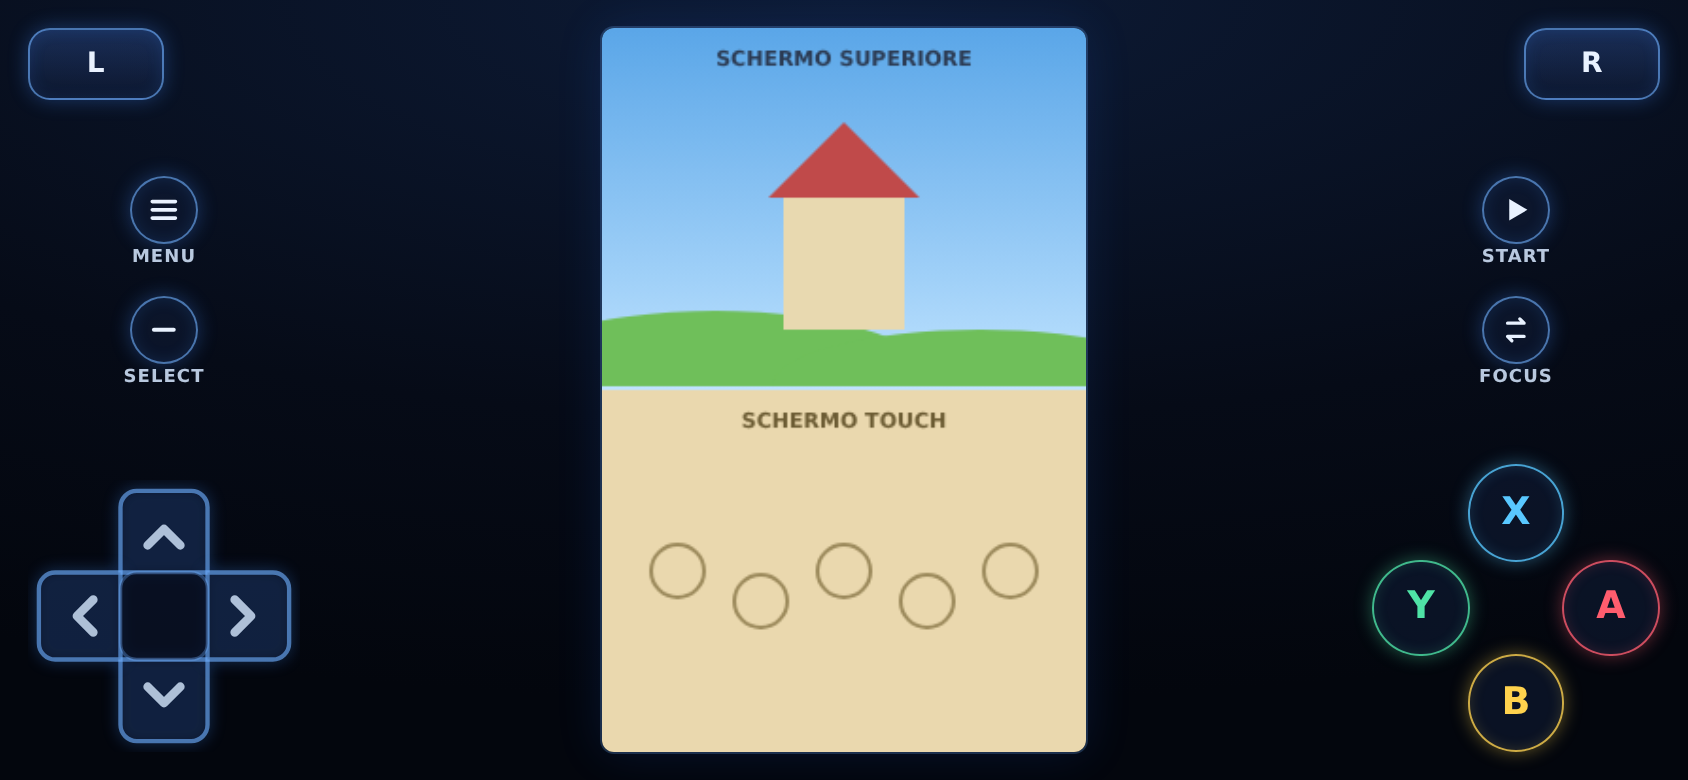
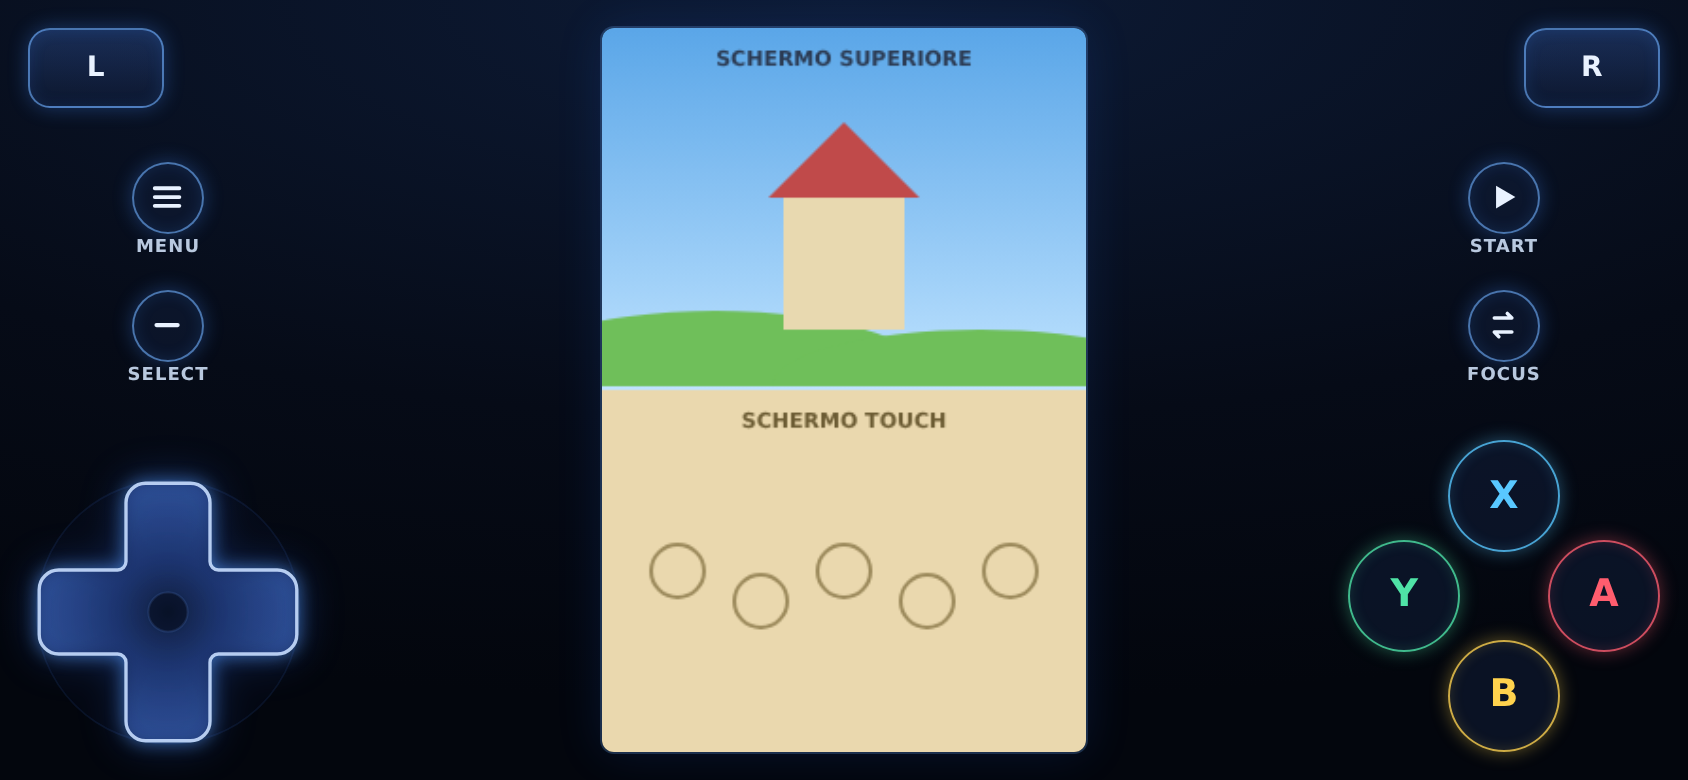
Touch controls UI freeze V1: D-pad matches approved artwork, 48/44 dp hit areas, PS1 immersive wake-on-touch
D-pad is now one plus-shaped glass silhouette (glowing rim, dimple, halo)
with clipped per-direction pressed overlays; action buttons >= 48 px,
MENU/SELECT/START/FOCUS >= 44 px, shoulders hit >= 48; PS1 aux key hides
controls (0.1) and wakes them on touch; DS landscape default stays 4:3.
Tests: 195 geometry, 118 browser, 35 PWA; docs and screenshots refreshed.

Claude-Session: https://claude.ai/code/session_01VhHh8YHWjq2vriaMyB2Wog

diff --git a/cloud/worker/public/controls/layouts.js b/cloud/worker/public/controls/layouts.js
@@ -9,12 +9,13 @@ export const PLATFORMS = {
 
 export const DIM = {
   margin: 14, gap: 10,
-  shoulder: { w: 68, h: 36 },          // DS L / R
-  shoulderPs: { w: 54, h: 36 },        // PS1 L1 L2 R1 R2
-  pill: { hit: 40, vis: 34, label: 12 },   // MENU SELECT START FOCUS (round icon button + micro label)
-  dpad: { max: 136, min: 108 },
-  cluster: { max: 144, min: 112 },     // diamond of four action buttons
-  minHit: 40,
+  shoulder: { w: 68, h: 40 },          // DS L / R
+  shoulderPs: { w: 54, h: 40 },        // PS1 L1 L2 R1 R2
+  pill: { hit: 44, vis: 36, label: 12 },   // MENU SELECT START FOCUS (round icon button + micro label)
+  dpad: { max: 140, min: 116 },
+  cluster: { max: 156, min: 134 },     // diamond of four action buttons
+  minHit: 48,                          // D-pad, action buttons, shoulders
+  minHitSystem: 44,                    // MENU SELECT START FOCUS
 };
 
 const rect = (x, y, w, h) => ({ x, y, w, h });
@@ -38,9 +39,10 @@ export function computeLayout({ platform = "nds", width, height, insets = {}, vi
   if (landscape) s = Math.min(s, frame.h / columnNeed);
 
   const D = (v) => v * s;
+  const PH = () => Math.max(D(DIM.pill.hit), DIM.pill.hit);          // MENU / SELECT / START / FOCUS never drop below their 44 px touch size
   const dpadSize = (avail) => Math.max(D(DIM.dpad.min), Math.min(D(DIM.dpad.max), avail));
   const mk = (id, type, x, y, w, h, extra = {}) => add({ id, type, x: frame.x + x, y: frame.y + y, w, h, ...extra });
-  const pill = (id, label, icon, cx, cy) => mk(id, "pill", cx - D(DIM.pill.hit) / 2, cy - D(DIM.pill.hit) / 2, D(DIM.pill.hit), D(DIM.pill.hit) + D(DIM.pill.label), { label, icon, vis: D(DIM.pill.vis) });
+  const pill = (id, label, icon, cx, cy) => mk(id, "pill", cx - PH() / 2, cy - PH() / 2, PH(), PH() + D(DIM.pill.label), { label, icon, vis: D(DIM.pill.vis) });
 
   const faces = ps
     ? [["x", "triangle", "top"], ["a", "circle", "right"], ["b", "cross", "bottom"], ["y", "square", "left"]]
@@ -67,14 +69,14 @@ export function computeLayout({ platform = "nds", width, height, insets = {}, vi
     const top = D(m) + D(sh.h) + D(g);
 
     // bottom area: D-pad bottom-left, actions bottom-right, MENU/SELECT/START small, centred.
-    const pillsW = 3 * D(DIM.pill.hit) + 2 * D(4);
-    const pillH = D(DIM.pill.hit) + D(DIM.pill.label);
+    const pillsW = 3 * PH() + 2 * D(4);
+    const pillH = PH() + D(DIM.pill.label);
     let dp = D(DIM.dpad.max), cl = D(DIM.cluster.max);
     let centre = frame.w - 2 * D(m) - dp - cl;
     let pillsInline = centre >= pillsW + D(8);
     if (!pillsInline) {                                   // shrink the pads a little before giving up the reference arrangement
       const shrink = Math.min(1, (frame.w - 2 * D(m) - pillsW - D(8)) / (dp + cl));
-      const dp2 = Math.max(D(DIM.dpad.min), dp * shrink), cl2 = Math.max(D(DIM.cluster.min), cl * shrink);
+      const dp2 = Math.max(D(DIM.dpad.min), dp * shrink), cl2 = Math.max(Math.max(D(DIM.cluster.min), DIM.cluster.min), cl * shrink);
       if (frame.w - 2 * D(m) - dp2 - cl2 >= pillsW + D(8)) { dp = dp2; cl = cl2; pillsInline = true; }
     }
     variant = pillsInline ? "inline-pills" : "tiered-pills";
@@ -83,10 +85,10 @@ export function computeLayout({ platform = "nds", width, height, insets = {}, vi
     const padsBottom = pillsInline ? bottomPad : bottomPad - pillH - D(6);
     mk("dpad", "dpad", D(m), padsBottom - dp, dp, dp);
     addCluster(frame.w - D(m) - cl, padsBottom - cl, cl);
-    const cx = frame.w / 2, step = D(DIM.pill.hit) + D(4);
-    pill("menu", "MENU", "menu", cx - step, pillRowY + D(DIM.pill.hit) / 2);
-    pill("select", "SELECT", "minus", cx, pillRowY + D(DIM.pill.hit) / 2);
-    pill("start", "START", "play", cx + step, pillRowY + D(DIM.pill.hit) / 2);
+    const cx = frame.w / 2, step = PH() + D(4);
+    pill("menu", "MENU", "menu", cx - step, pillRowY + PH() / 2);
+    pill("select", "SELECT", "minus", cx, pillRowY + PH() / 2);
+    pill("start", "START", "play", cx + step, pillRowY + PH() / 2);
     const controlsTop = padsBottom - Math.max(dp, cl);
     const region = rect(frame.x + D(m), frame.y + top, frame.w - 2 * D(m), Math.max(0, controlsTop - D(g) - top));
     screen = { region };
@@ -97,7 +99,7 @@ export function computeLayout({ platform = "nds", width, height, insets = {}, vi
     // the pads shrink (never below their minimum) when the picture would otherwise be limited by width instead of height (PS1 4:3 on a short, narrow phone)
     const wWanted = (frame.h - 2 * D(m)) * P.aspect;
     const colBudget = (frame.w - wWanted) / 2 - D(g) - D(m);
-    const dp = Math.max(D(DIM.dpad.min), Math.min(D(DIM.dpad.max), colBudget)), cl = Math.max(D(DIM.cluster.min), Math.min(D(DIM.cluster.max), colBudget));
+    const dp = Math.max(D(DIM.dpad.min), Math.min(D(DIM.dpad.max), colBudget)), cl = Math.max(Math.max(D(DIM.cluster.min), DIM.cluster.min), Math.min(D(DIM.cluster.max), colBudget));
     const colW = Math.max(dp, cl, shouldersW) + D(m);
     addShoulders("L", D(m), D(m));
     addShoulders("R", frame.w - D(m) - shouldersW, D(m));
@@ -105,11 +107,11 @@ export function computeLayout({ platform = "nds", width, height, insets = {}, vi
     addCluster(frame.w - D(m) - cl, frame.h - D(m) - cl, cl);
     // the two small buttons are stacked in the band between the shoulder row and the pad, centred on the shoulder / pad axis
     const bandTop = D(m) + D(sh.h) + D(g), bandBottom = frame.h - D(m) - Math.max(dp, cl) - D(g);
-    const pillH = D(DIM.pill.hit) + D(DIM.pill.label);
+    const pillH = PH() + D(DIM.pill.label);
     const gapPills = Math.max(0, Math.min(D(8), (bandBottom - bandTop - 2 * pillH) / 3));
     const y0 = bandTop + Math.max(0, (bandBottom - bandTop - 2 * pillH - gapPills) / 2);
     const lcx = D(m) + Math.max(shouldersW, dp) / 2, rcx = frame.w - D(m) - Math.max(shouldersW, cl) / 2;
-    const cyA = y0 + D(DIM.pill.hit) / 2, cyB = y0 + pillH + gapPills + D(DIM.pill.hit) / 2;
+    const cyA = y0 + PH() / 2, cyB = y0 + pillH + gapPills + PH() / 2;
     pill("menu", "MENU", "menu", lcx, cyA);
     pill("select", "SELECT", "minus", lcx, cyB);
     pill("start", "START", "play", rcx, cyA);
@@ -140,8 +142,9 @@ export function computeLayout({ platform = "nds", width, height, insets = {}, vi
 
   // hit areas: visible rect grown towards free space but never beyond the minimum comfortable size; clamped to the frame
   for (const c of controls) {
-    const mw = Math.max(c.w, D(DIM.minHit)), mh = Math.max(c.type === "pill" ? D(DIM.pill.hit) : c.h, D(DIM.minHit));
-    c.hit = rect(c.x - (mw - c.w) / 2, c.y - (mh - (c.type === "pill" ? D(DIM.pill.hit) : c.h)) / 2, mw, c.type === "pill" ? D(DIM.pill.hit) : mh);
+    const sys = c.type === "pill", need = sys ? DIM.minHitSystem : DIM.minHit, baseH = sys ? PH() : c.h;
+    const mw = Math.max(c.w, need), mh = Math.max(baseH, need);
+    c.hit = rect(c.x - (mw - c.w) / 2, c.y - (mh - baseH) / 2, mw, mh);
   }
   return { platform, orientation: landscape ? "landscape" : "portrait", scale: s, frame, screen, stylus, controls, variant };
 }

diff --git a/cloud/worker/public/controls/controls.css b/cloud/worker/public/controls/controls.css
@@ -14,7 +14,7 @@
 .ctl-shoulder { background: linear-gradient(180deg, rgba(40, 70, 130, .55), var(--fill)); border: 1.5px solid var(--edge); border-radius: calc(11px * var(--k, 1)); box-shadow: var(--glow);
   display: grid; place-items: center; font-size: calc(14px * var(--k, 1)); font-weight: 700; letter-spacing: .02em; }
 .ctl-shoulder.is-down, .ctl-pillbtn.is-down { background: var(--fill-down); box-shadow: var(--glow-down); transform: scale(.95); }
-.ctl-shoulder, .ctl-pillbtn, .ctl-face, .ctl-dpad .arm { transition: transform .06s, background .06s, box-shadow .06s, fill .06s; }
+.ctl-shoulder, .ctl-pillbtn, .ctl-face { transition: transform .06s, background .06s, box-shadow .06s, fill .06s; }
 
 /* MENU / SELECT / START / FOCUS: round icon + micro label */
 .ctl-pill { display: flex; flex-direction: column; align-items: center; }
@@ -23,18 +23,20 @@
 .ctl-micro { margin-top: calc(3px * var(--k, 1)); font-size: calc(9px * var(--k, 1)); letter-spacing: .06em; color: rgba(214, 232, 255, .86); text-transform: uppercase; white-space: nowrap; }
 .ctl-pill.is-active .ctl-pillbtn { border-color: #8fd0ff; box-shadow: var(--glow-down); }
 
-/* D-pad */
-.ctl-dpad .arm { fill: var(--fill); stroke: var(--edge); stroke-width: 1.6; filter: drop-shadow(0 0 3px rgba(64, 140, 255, .45)); }
-.ctl-dpad .hub { fill: rgba(10, 18, 38, .8); stroke: var(--edge-dim); stroke-width: 1.2; rx: 6; }
-.ctl-dpad .chev { fill: none; stroke: rgba(214, 232, 255, .8); stroke-width: 3.2; stroke-linecap: round; stroke-linejoin: round; }
-.ctl-dpad .arm.is-down { fill: var(--fill-down); stroke: #bfe2ff; filter: drop-shadow(0 0 7px rgba(110, 180, 255, .95)); }
+/* D-pad: single plus silhouette (see components.js) */
+.ctl-dpad svg { overflow: visible; }
+.ctl-dpad .halo { fill: rgba(30, 60, 130, .05); stroke: rgba(80, 140, 255, .10); stroke-width: .6; }
+.ctl-dpad .shape { stroke: rgba(200, 222, 255, .9); stroke-width: 1.2; stroke-linejoin: round; filter: drop-shadow(0 0 3px rgba(90, 160, 255, .75)) drop-shadow(0 0 7px rgba(50, 110, 240, .35)); }
+.ctl-dpad .arm { fill: rgba(120, 185, 255, 0); transition: fill .06s; }
+.ctl-dpad .arm.is-down { fill: rgba(120, 190, 255, .55); }
+.ctl-dpad .dimple { fill: rgba(4, 9, 22, .55); stroke: rgba(120, 170, 255, .12); stroke-width: .8; }
 
 /* action cluster */
-.ctl-cluster .ctl-face { position: absolute; width: 34%; height: 34%; border-radius: 50%; background: var(--fill); border: 1.8px solid color-mix(in srgb, var(--accent) 80%, white 0%);
+.ctl-cluster .ctl-face { position: absolute; width: 36%; height: 36%; border-radius: 50%; background: var(--fill); border: 1.8px solid color-mix(in srgb, var(--accent) 80%, white 0%);
   color: var(--accent); box-shadow: 0 0 9px color-mix(in srgb, var(--accent) 38%, transparent), inset 0 0 7px color-mix(in srgb, var(--accent) 16%, transparent); display: grid; place-items: center; }
 .ctl-face .ctl-glyph { font-size: calc(19px * var(--k, 1)); font-weight: 800; }
 .ctl-face svg { width: 62%; height: 62%; }
-.ctl-face.face-top { left: 33%; top: 0; } .ctl-face.face-bottom { left: 33%; bottom: 0; } .ctl-face.face-left { left: 0; top: 33%; } .ctl-face.face-right { right: 0; top: 33%; }
+.ctl-face.face-top { left: 32%; top: 0; } .ctl-face.face-bottom { left: 32%; bottom: 0; } .ctl-face.face-left { left: 0; top: 32%; } .ctl-face.face-right { right: 0; top: 32%; }
 .ctl-face.is-down { background: color-mix(in srgb, var(--accent) 38%, rgba(10, 20, 44, .8)); box-shadow: 0 0 16px color-mix(in srgb, var(--accent) 80%, transparent), inset 0 0 10px color-mix(in srgb, var(--accent) 35%, transparent); transform: scale(.93); color: #fff; }
 
 /* in-game menu */
@@ -46,4 +48,3 @@
 .ctl-menu button { appearance: none; border: 1.5px solid var(--edge); background: var(--fill); color: var(--txt); border-radius: 12px; padding: 12px 14px; font: 700 14px system-ui; min-height: 44px; }
 .ctl-menu button.primary { background: rgba(70, 140, 255, .55); } .ctl-menu button.danger { border-color: rgba(255, 110, 130, .7); color: #ffb3bf; }
 .ctl-hud { position: absolute; left: 50%; transform: translateX(-50%); top: 4px; font-size: 10px; letter-spacing: .08em; color: rgba(190, 215, 255, .55); pointer-events: none; z-index: 2; }
-.ctl-immersive .ctl-c { --ctl-alpha: .28; }

diff --git a/cloud/worker/public/controls/controls.js b/cloud/worker/public/controls/controls.js
@@ -14,7 +14,9 @@ export function mountControls({ container, video, platform = "nds", sink, insets
   container.append(clip, overlay);
 
   const nodes = new Map();
-  let view = "both", layout = null, menu = null, immersive = false, destroyed = false;
+  let view = "both", layout = null, menu = null, immersive = false, awake = false, wakeTimer = 0, destroyed = false;
+  const IMMERSIVE_ALPHA = 0.1, WAKE_MS = 2500;                      // PS1 aux key: controls almost hidden, back at full opacity on touch
+  const alphaNow = () => (immersive && !awake ? Math.min(settings.alpha, IMMERSIVE_ALPHA) : settings.alpha);
   const visual = (id, sub, down) => {
     const n = nodes.get(id); if (!n) return;
     if (sub) { const part = n.querySelector(`[data-dir="${sub}"], [data-face="${sub}"]`); if (part) part.classList.toggle("is-down", down); }
@@ -37,7 +39,7 @@ export function mountControls({ container, video, platform = "nds", sink, insets
     const { width, height } = dims();
     layout = computeLayout({ platform, width, height, insets: readInsets(), view, fill: settings.stretch, userScale: settings.scale });
     container.dataset.orientation = layout.orientation; container.dataset.variant = layout.variant; container.dataset.platform = platform;
-    container.style.setProperty("--ctl-alpha", String(immersive ? Math.min(settings.alpha, 0.28) : settings.alpha));
+    container.style.setProperty("--ctl-alpha", String(alphaNow()));
     const cl = layout.screen.clip, v = layout.screen.video;
     Object.assign(clip.style, { left: `${cl.x}px`, top: `${cl.y}px`, width: `${cl.w}px`, height: `${cl.h}px` });
     Object.assign(video.style, { left: `${v.x - cl.x}px`, top: `${v.y - cl.y}px`, width: `${v.w}px`, height: `${v.h}px`, objectFit: "fill" });
@@ -58,14 +60,16 @@ export function mountControls({ container, video, platform = "nds", sink, insets
     if (name === "menu") { api.openMenu(); }
     else if (name === "focus") {
       if (platform === "nds") { view = view === "both" ? "bottom" : view === "bottom" ? "top" : "both"; }
-      else immersive = !immersive;
+      else { immersive = !immersive; awake = false; clearTimeout(wakeTimer); }
       relayout();
     }
     sink.ui?.(name);
   }
 
   const on = (t, ev, fn, opt) => { t.addEventListener(ev, fn, opt); return () => t.removeEventListener(ev, fn, opt); };
+  const wake = () => { if (!immersive) return; awake = true; container.style.setProperty("--ctl-alpha", String(alphaNow())); clearTimeout(wakeTimer); wakeTimer = setTimeout(() => { awake = false; if (!destroyed) container.style.setProperty("--ctl-alpha", String(alphaNow())); }, WAKE_MS); };
   const offs = [
+    on(container, "pointerdown", wake, true),
     on(container, "pointerdown", (e) => { if (menu) return; if (router.down(e)) { try { container.setPointerCapture(e.pointerId); } catch { /* ignore */ } e.preventDefault(); } }),
     on(container, "pointermove", (e) => router.move(e)),
     on(container, "pointerup", (e) => router.up(e)),
@@ -87,7 +91,7 @@ export function mountControls({ container, video, platform = "nds", sink, insets
       router.releaseAll(); menu?.close();
       menu = openMenu(container, { settings, onChange: (s) => { Object.assign(settings, s); if (persist) saveSettings(settings); relayout(); }, onResume: () => { menu = null; }, onLeave: () => { menu = null; onLeave(); } });
     },
-    destroy() { destroyed = true; router.releaseAll(); offs.forEach((f) => f()); menu?.close(); overlay.remove(); clip.remove(); container.classList.remove("ctl-stage"); },
+    destroy() { destroyed = true; clearTimeout(wakeTimer); router.releaseAll(); offs.forEach((f) => f()); menu?.close(); overlay.remove(); clip.remove(); container.classList.remove("ctl-stage"); },
     router,
   };
   relayout();

diff --git a/cloud/worker/public/controls/components.js b/cloud/worker/public/controls/components.js
@@ -24,6 +24,7 @@ export const FACE_COLORS = {   // light accents on the action buttons
 
 const el = (tag, cls, attrs = {}) => { const e = document.createElement(tag); if (cls) e.className = cls; for (const [k, v] of Object.entries(attrs)) e.setAttribute(k, v); return e; };
 
+let dpadSeq = 0;
 export function buildControl(c) {
   const root = el("div", `ctl-c ctl-${c.type}`, { "data-id": c.id });
   switch (c.type) {
@@ -34,13 +35,17 @@ export function buildControl(c) {
       root.append(b, l); break;
     }
     case "dpad": {
-      const s = svg('' +
-        '<path class="arm" data-dir="up" d="M40 4h20a6 6 0 0 1 6 6v24H34V10a6 6 0 0 1 6-6z"/>' +
-        '<path class="arm" data-dir="down" d="M40 96h20a6 6 0 0 0 6-6V66H34v24a6 6 0 0 0 6 6z"/>' +
-        '<path class="arm" data-dir="left" d="M4 40v20a6 6 0 0 0 6 6h24V34H10a6 6 0 0 0-6 6z"/>' +
-        '<path class="arm" data-dir="right" d="M96 40v20a6 6 0 0 1-6 6H66V34h24a6 6 0 0 1 6 6z"/>' +
-        '<rect class="hub" x="34" y="34" width="32" height="32"/>' +
-        '<path class="chev" d="M44 24l6-6 6 6M44 76l6 6 6-6M24 44l-6 6 6 6M76 44l6 6-6 6"/>', "0 0 100 100");
+      // ONE plus-shaped silhouette like the approved artwork: pale glowing rim, blue-navy glass body (lighter at the arm tips), dark centre dimple, faint round halo.
+      // The four `.arm` overlays are clipped to the silhouette and only show the pressed direction.
+      const u = ++dpadSeq, PLUS = "M42 4H58A7 7 0 0 1 65 11V32A3 3 0 0 0 68 35H89A7 7 0 0 1 96 42V58A7 7 0 0 1 89 65H68A3 3 0 0 0 65 68V89A7 7 0 0 1 58 96H42A7 7 0 0 1 35 89V68A3 3 0 0 0 32 65H11A7 7 0 0 1 4 58V42A7 7 0 0 1 11 35H32A3 3 0 0 0 35 32V11A7 7 0 0 1 42 4Z";
+      const s = svg(`<defs><clipPath id="dpc${u}"><path d="${PLUS}"/></clipPath>` +
+        `<radialGradient id="dpg${u}" cx="50%" cy="50%" r="55%"><stop offset="0" stop-color="#0a1430" stop-opacity=".92"/><stop offset=".38" stop-color="#14245a" stop-opacity=".74"/><stop offset="1" stop-color="#2f4d9a" stop-opacity=".62"/></radialGradient></defs>` +
+        `<circle class="halo" cx="50" cy="50" r="47"/>` +
+        `<path class="shape" d="${PLUS}" fill="url(#dpg${u})"/>` +
+        `<g clip-path="url(#dpc${u})">` +
+        `<rect class="arm" data-dir="up" x="35" y="0" width="30" height="46"/><rect class="arm" data-dir="down" x="35" y="54" width="30" height="46"/>` +
+        `<rect class="arm" data-dir="left" x="0" y="35" width="46" height="30"/><rect class="arm" data-dir="right" x="54" y="35" width="46" height="30"/></g>` +
+        `<circle class="dimple" cx="50" cy="50" r="7"/>`, "0 0 100 100");
       root.append(s); break;
     }
     case "cluster": {

diff --git a/docs/TOUCH_CONTROLS.md b/docs/TOUCH_CONTROLS.md
@@ -3,8 +3,9 @@
 Sistema di controlli touch definitivo, fedele al design approvato (4 layout: Nintendo DS e PlayStation 1,
 verticale e orizzontale). Immagine d'insieme: `docs/img/touch-controls-layouts.png`.
 
-Stato: **CODED / BUILD VERIFIED / LOCAL TESTED** (node --test 195/195, Chrome mobile emulation 111/111,
-PWA end-to-end 35/35). **DEVICE PENDING**: non ancora provato su telefoni reali.
+Stato: **UI FREEZE V1** — **CODED / BUILD VERIFIED / LOCAL TESTED** (node --test 195/195, Chrome mobile emulation
+118/118, PWA end-to-end 35/35). **DEVICE PENDING**: non ancora provato su telefoni reali.
+Dopo questa versione i 4 layout sono congelati: solo bugfix o micro-regolazioni, nessun cambio di posizione o struttura.
 
 ## 1. Architettura (layout separato da input)
 
@@ -33,8 +34,9 @@ lo spazio rimasto.
 ## 3. Misure e gerarchia
 
 Fattore dp `s = clamp(min(w,h)/390, 0.8, 1.25) × scalaUtente(0.8–1.2)`; in orizzontale limitato dal budget
-delle colonne. Margine 14, gap 10, spalle 68×36 (PS1 54×36), pillole hit 40 / visibile 34, D-pad 108–136,
-cluster azioni 112–144, area di hit minima 40 dp. Rispetta le safe-area (notch). Gerarchia: schermo >
+delle colonne. Margine 14, gap 10, spalle 68×40 (PS1 54×40), pillole visibili 36, D-pad 116–140, cluster azioni 134–156
+(pulsante azione visibile ≥ 48 px: 36% del cluster).
+**Aree di tocco minime (px assoluti, mai ridotte dalla scala): D-pad / azioni / dorsali ≥ 48, MENU / SELECT / START / FOCUS ≥ 44.** Rispetta le safe-area (notch). Gerarchia: schermo >
 D-pad/azioni > spalle > pillole di sistema.
 
 ## 4. Regole di input
@@ -49,12 +51,18 @@ D-pad/azioni > spalle > pillole di sistema.
 Mappa RetroPad: B0 Y1 SELECT2 START3 UP4 DOWN5 LEFT6 RIGHT7 A8 X9 L10 R11 L2 12 R2 13.
 Facce PS1: ✕=b, ○=a, □=y, △=x.
 
-## 5. Decisioni
+## 4b. D-pad (fedele alla reference)
 
-- **Schermi DS**: il frame è un unico video 512×768 (due schermi 4:3 impilati). Di default si mantiene il
-  vero rapporto (nessuna deformazione). L'opzione "schermi più larghi" (Menu, card 2b dell'anteprima)
+Un'unica sagoma a croce (bracci larghi circa un terzo, angoli esterni arrotondati, raccordi interni morbidi), bordo
+chiaro luminoso con glow, corpo in vetro blu-navy più chiaro verso le punte, incavo scuro al centro, alone circolare
+tenue. Nessuna freccia/chevron: come nell'immagine approvata. Quattro overlay (`.arm`), ritagliati sulla sagoma,
+illuminano solo la direzione premuta. La hit area resta quella del layout (8 direzioni, zona morta).
+
+## 5. Decisioni (congelate)
+
+- **Schermi DS**: il frame è un unico video 512×768 (due schermi 4:3 impilati). **Default: vero rapporto 4:3 per ciascuno dei due schermi** (immagine 2:3, nessuna deformazione). L'opzione "schermi più larghi" (Menu, card 2b dell'anteprima)
   stira l'immagine per riprodurre l'aspetto largo del mockup.
-- **FOCUS**: DS = vista entrambi / basso / alto; PS1 = modalità immersiva (i controlli sfumano).
+- **FOCUS**: DS = alterna schermo intero / solo sopra / solo sotto; PS1 = modalità immersiva: i controlli quasi nascosti (opacità 0,1) e tornano visibili al tocco per 2,5 s, restando sempre attivi.
 - **PS1**: solo interfaccia; nel Runtime non c'è ancora un core PS1 (il gateway risponde 501).
 
 ## 6. Estensioni previste (V1 = 4 layout fissi)
